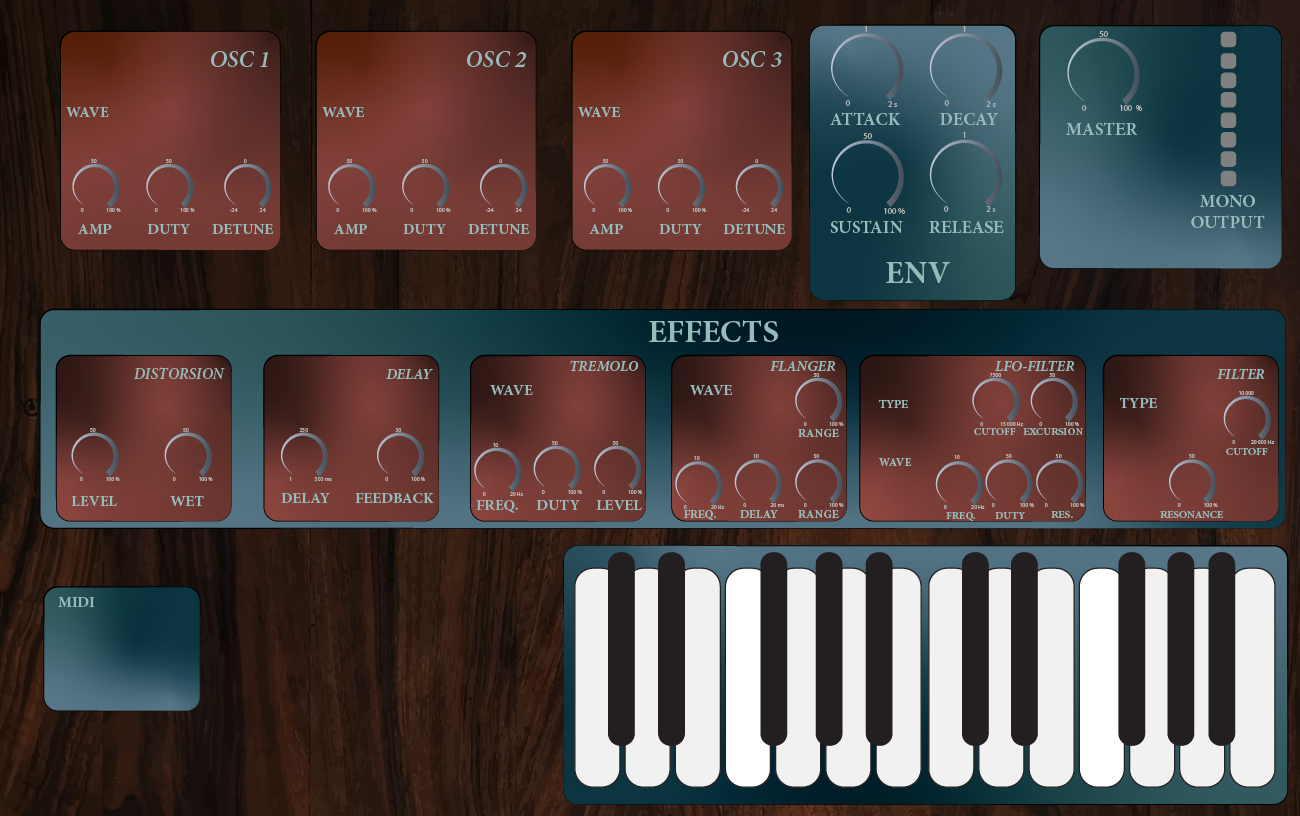
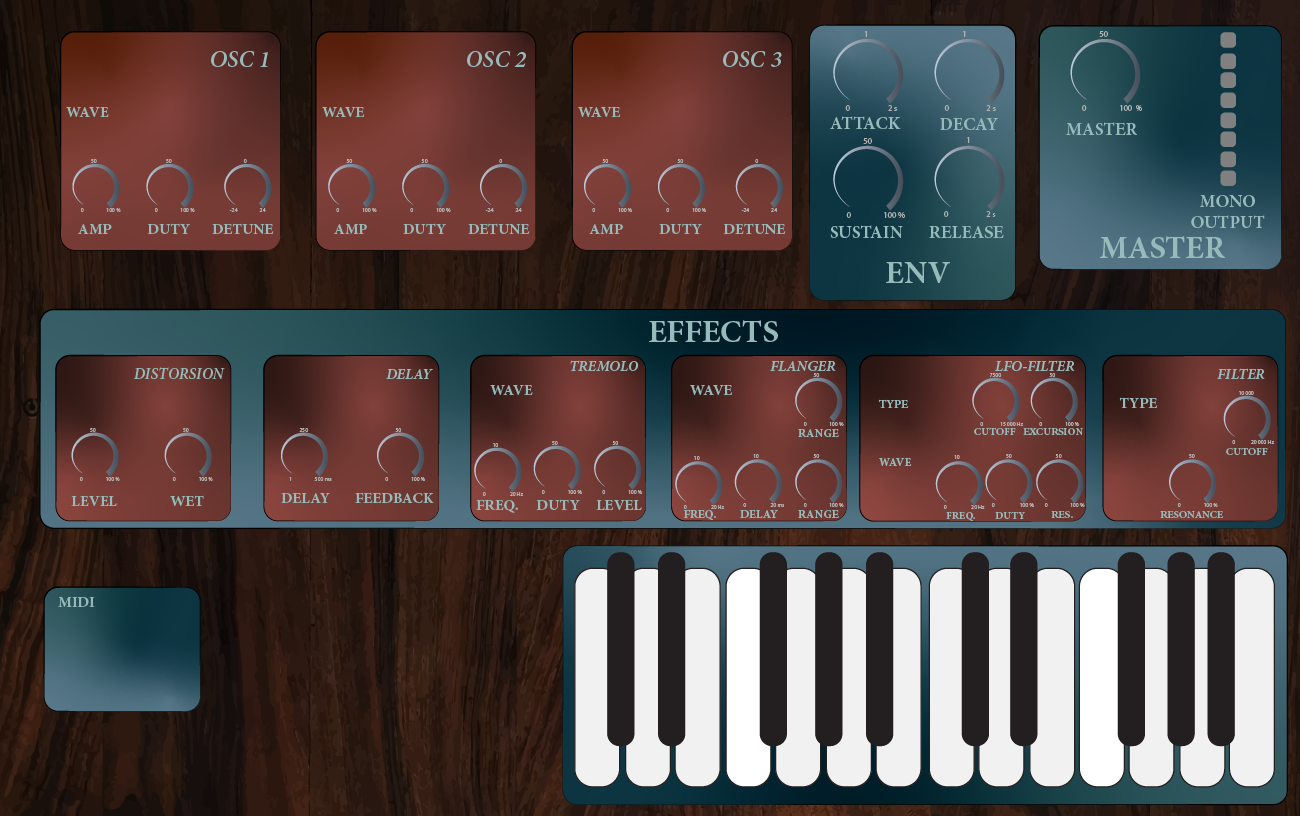
big and small pots, adjustment of pots, angle of pots

diff --git a/src/gui/gui.c b/src/gui/gui.c
@@ -35,60 +35,60 @@ static const int ms_switches_location[NUMBER_OF_MS_SWITCHES][2] = {
     {1112, 418},      // Filter type
 };
 
-static const int pots_location[NUMBER_OF_POTS][2] = {
+static const int pots_location[NUMBER_OF_POTS][3] = {
     // OSC1
-    {72, 164},
-    {148, 164},
-    {225, 164},
+    {72, 164, 0},
+    {148, 164, 0},
+    {225, 164, 0},
 
     // OSC 2
-    {327, 164},
-    {403, 164},
-    {482, 164},
+    {327, 164, 0},
+    {403, 164, 0},
+    {482, 164, 0},
 
     //OSC3
-    {584, 164},
-    {659, 164},
-    {736, 164},
+    {584, 164, 0},
+    {659, 164, 0},
+    {736, 164, 0},
 
     // Envelope
-    {832, 40},
-    {930, 40},
-    {832, 153},
-    {930, 153},
+    {834, 41, 1},
+    {935, 41, 1},
+    {836, 148, 1},
+    {935, 147, 1},
 
     // Master
-    {1069, 56},
+    {1071, 41, 1},
 
     // Distortion
-    {73, 433},
-    {166, 433},
+    {73, 433, 0},
+    {166, 433, 0},
 
     // Delay
-    {282, 434},
-    {378, 434},
+    {282, 434, 0},
+    {378, 434, 0},
 
     // Tremolo
-    {475, 449},
-    {535, 447},
-    {595, 447},
+    {475, 449, 0},
+    {535, 447, 0},
+    {595, 447, 0},
 
     // Flanger
-    {795, 377},
-    {676, 460},
-    {735, 460},
-    {795, 460},
+    {795, 377, 0},
+    {676, 460, 0},
+    {735, 460, 0},
+    {795, 460, 0},
 
     // LFO filter
-    {972, 377},
-    {1031, 377},
-    {937, 461},
-    {987, 460},
-    {1037, 460},
+    {972, 377, 0},
+    {1031, 377, 0},
+    {937, 461, 0},
+    {987, 460, 0},
+    {1037, 460, 0},
 
     // Filter
-    {1224, 395},
-    {1169, 460}
+    {1224, 395, 0},
+    {1169, 460, 0}
 };
 
 static const int buttons_location[NUMBER_OF_BUTTONS][2] = {
@@ -526,7 +526,10 @@ int create_pots_map(Gui_SDL_objects *gui, Sys_param *sys_param)
     }
     for (int pot = 0; pot < NUMBER_OF_POTS; ++pot)
     {
-        gui->pots[pot].percent = 0;
+        gui->pots[pot].size=pots_location[pot][2];
+
+        if (gui->pots[pot].size == 0){
+            gui->pots[pot].percent = 0;
         gui->pots[pot].img = IMAGE_POT_SMALL;
         gui->pots[pot].posX = pots_location[pot][0];
         gui->pots[pot].posY = pots_location[pot][1];
@@ -542,6 +545,27 @@ int create_pots_map(Gui_SDL_objects *gui, Sys_param *sys_param)
             sys_print_SDL_error("Failed creating texture");
             return -1;
         }
+
+        }
+        if (gui->pots[pot].size==1){
+            gui->pots[pot].percent = 0;
+            gui->pots[pot].img = IMAGE_POT_BIG;
+            gui->pots[pot].posX = pots_location[pot][0];
+            gui->pots[pot].posY = pots_location[pot][1];
+            gui->pots[pot].paramMIN = pot_min_max[pot][0];
+            gui->pots[pot].paramMAX = pot_min_max[pot][1];
+            gui->pots[pot].width = WIDTH_POT_BIG;
+            gui->pots[pot].height = HEIGHT_POT_BIG;
+            gui->pots[pot].sdl_pot =
+                gui_create_button(gui->pots[pot].posX, gui->pots[pot].posY, gui->pots[pot].width, gui->pots[pot].height, gui->pots[pot].img);
+            gui->pots[pot].texture = SDL_CreateTextureFromSurface(gui->renderer, gui->pots[pot].sdl_pot->internal_surface);
+            if (gui->pots[pot].texture == NULL)
+            {
+                sys_print_SDL_error("Failed creating texture");
+                return -1;
+            }
+        }
+
     }
 
     gui->pots[0].param = &sys_param->osc1->amp;

diff --git a/src/gui/gui.h b/src/gui/gui.h
@@ -17,6 +17,8 @@
 #define NUMBER_OF_SWITCHES 11
 #define NUMBER_OF_MS_SWITCHES 8
 #define NUMBER_OF_POTS 32
+#define NUMBER_OF_BIG_POTS 5
+
 
 #define NUMBER_OF_BUTTONS 3
 
@@ -39,9 +41,9 @@
 #define WIDTH_POT_SMALL                 45
 #define HEIGHT_POT_SMALL                46
 
-#define IMAGE_POT_LARGE                 "../src/gui/Figs/big_pot.png"
-#define WIDTH_POT_LARGE                 65
-#define HEIGHT_POT_LARGE                65
+#define IMAGE_POT_BIG                 "../src/gui/Figs/big_pot.png"
+#define WIDTH_POT_BIG                 65
+#define HEIGHT_POT_BIG                65
 
 #define IMAGE_BUTTON_LOAD_PRESSED       "../src/gui/Figs/load_clicked.png"
 #define IMAGE_BUTTON_LOAD_UNPRESSED     "../src/gui/Figs/load.png"
@@ -132,7 +134,8 @@ typedef struct
 typedef struct
 {
   SDL_Button_t *sdl_pot;      /*!<the SDL related objects for the potentiometer */
-  SDL_Texture *texture;       /*!<the SDL texture of the potentiometer */
+  SDL_Texture *texture;/*!<the SDL texture of the potentiometer */
+  Uint8 size;                  /*!<the size of the pot. Can be small (0) or big (1) */
   Uint16 posX;                /*!<the X position on the screen (in pixels) */
   Uint16 posY;                /*!<the Y position on the screen (in pixels) */
   Uint16 width;               /*!<the width (in pixels) */
